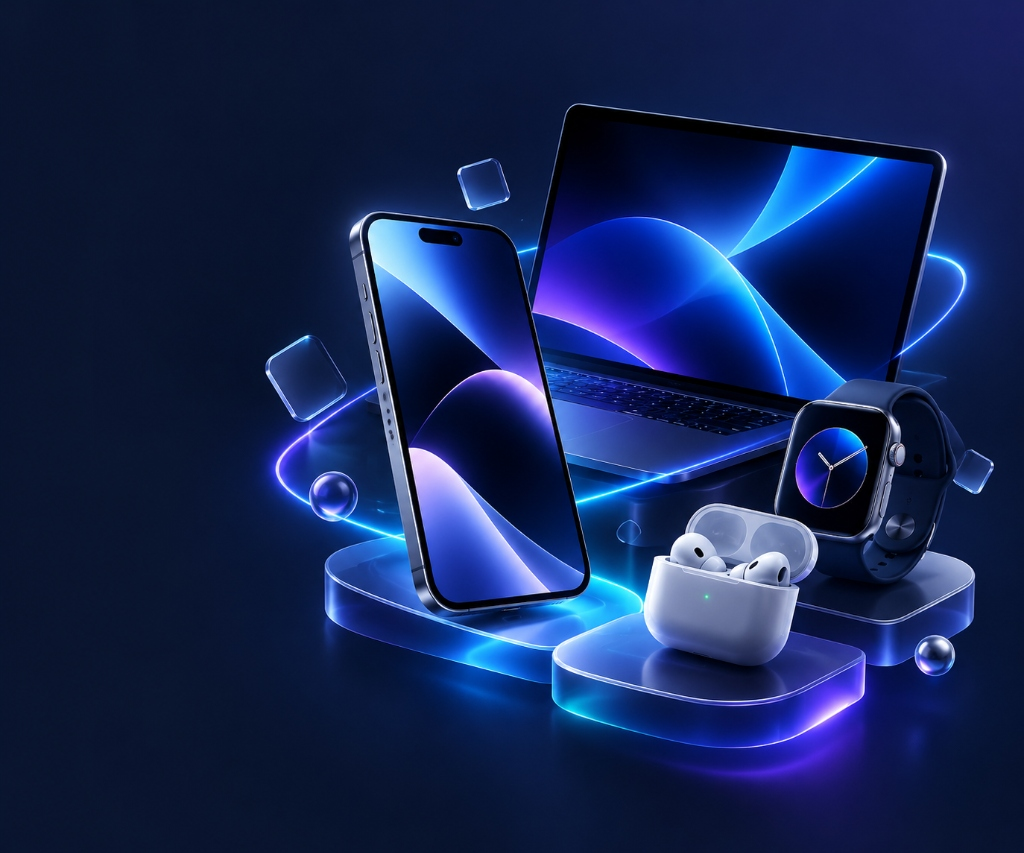
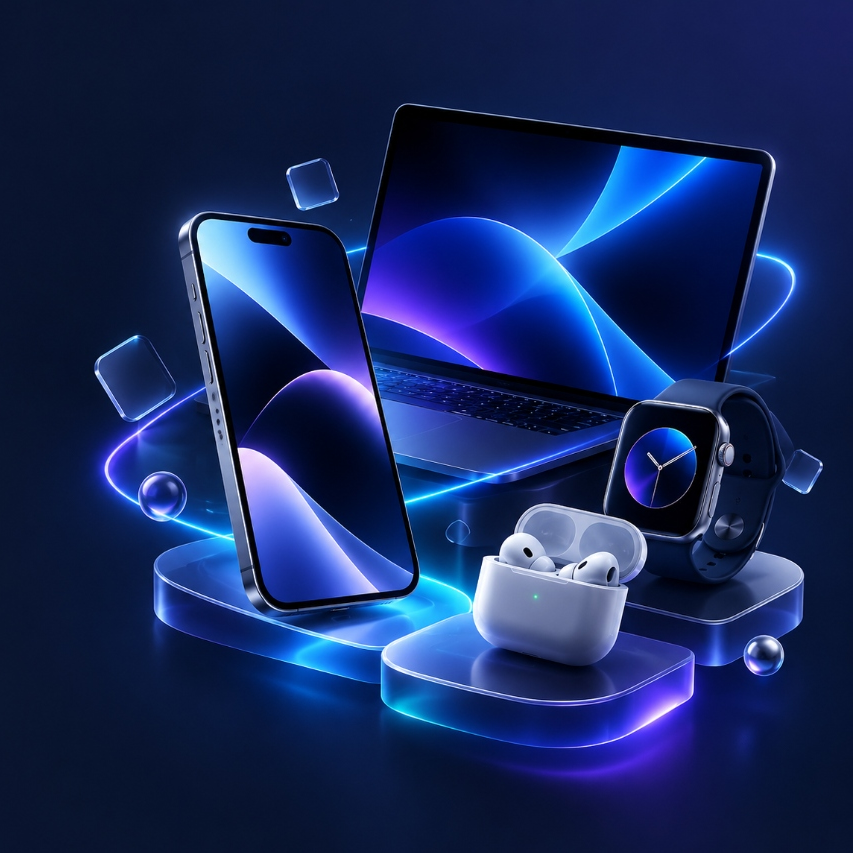
fix: update hero image and remove frame

diff --git a/frontend/src/pages/Home.tsx b/frontend/src/pages/Home.tsx
@@ -58,15 +58,12 @@ const Home = () => {
             </div>
           </div>
           <div className="md:w-1/2 flex justify-center md:justify-end">
-            <div className="relative w-full max-w-md aspect-square rounded-2xl bg-gradient-to-tr from-slate-800 to-slate-700 p-2 sm:p-4 shadow-2xl border border-slate-700 transform rotate-2 hover:rotate-0 transition-transform duration-500">
-              <div className="absolute inset-0 bg-white/5 rounded-2xl backdrop-blur-sm"></div>
-              <div className="relative w-full h-full border border-slate-600/50 rounded-xl overflow-hidden bg-slate-900">
-                <img 
-                  src="/images/hero-tech.png" 
-                  alt="Nova Tech Collection" 
-                  className="w-full h-full object-cover object-center"
-                />
-              </div>
+            <div className="relative w-full max-w-md aspect-square overflow-hidden rounded-2xl shadow-2xl transition-transform duration-500 hover:scale-[1.02]">
+              <img
+                src="/images/hero-tech.png"
+                alt="Nova Tech Collection"
+                className="w-full h-full object-cover object-center"
+              />
             </div>
           </div>
         </div>
